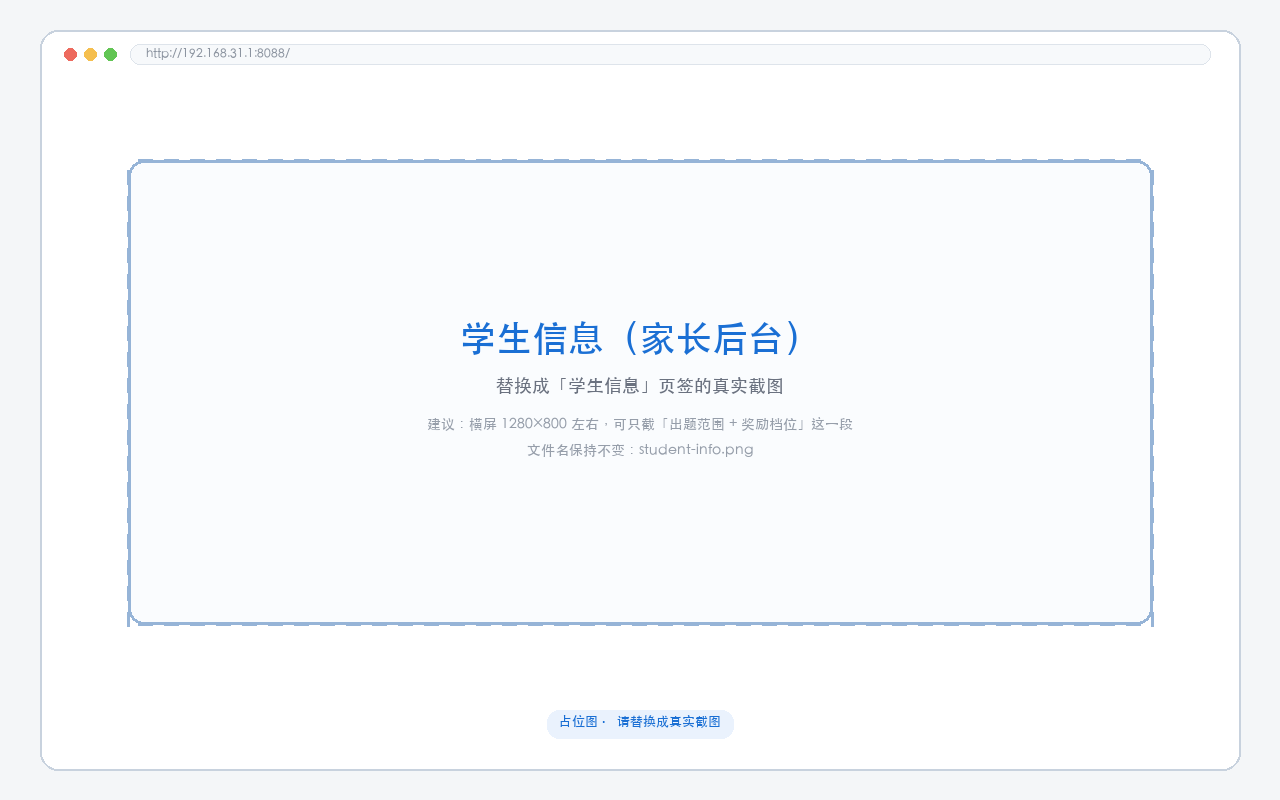
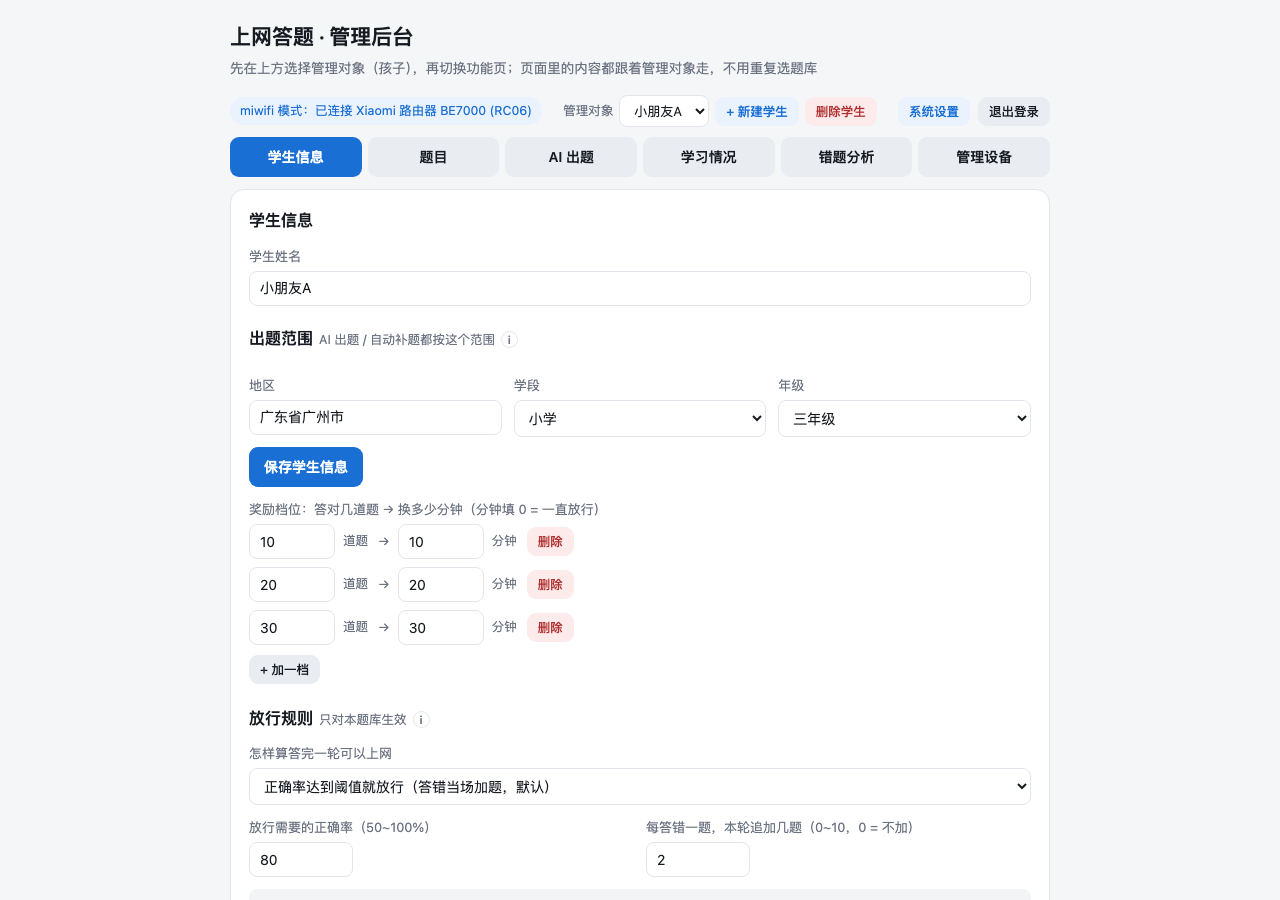
docs: 替换 README 截图为真实页面截图（答题页/学生信息/学习情况），姓名与设备 MAC/IP 已遮挡

diff --git a/docs/screenshots/README.md b/docs/screenshots/README.md
@@ -1,23 +1,23 @@
-# 截图占位说明
+# 截图
 
-README 顶部「截图」用的三张图就是这里的文件：
+README 顶部「截图」用的三张图，均来自真实运行页面（学生姓名、设备 MAC、内网 IP 已遮挡）：
 
-| 文件 | 对应界面 | 建议尺寸 |
+| 文件 | 对应界面 | 尺寸 |
 |---|---|---|
-| `answer-page.png` | 孩子答题页 `http://<内网IP>:8088/` | 手机竖屏，760×1120 左右 |
-| `student-info.png` | 后台「学生信息」页 | 横屏 1280×800 左右 |
-| `learning-stats.png` | 后台「学习情况」（含「学习统计」趋势图与「每科正确率」） | 横屏 1280×800 左右 |
+| `answer-page.png` | 孩子答题页 `http://<内网IP>:8088/`（手机视口 430×932 @2x） | 860×1864 |
+| `student-info.png` | 后台「学生信息」页签 | 1280×900 |
+| `learning-stats.png` | 后台「学习情况」：学情卡片 + 学习统计趋势图 + 每科正确率 | 806×712 |
 
-## 怎么替换
+## 想换成自己的截图
 
 1. 截好图（PNG / JPG 都行，JPG 体积更小）；
-2. 用同样的文件名覆盖这里的占位图（例如把截图命名为 `answer-page.png`）；
-3. `git add docs/screenshots && git commit -m "docs: 截图" && git push` 即可，README 不用改。
+2. 用同样的文件名覆盖这里的图（例如把截图命名为 `answer-page.png`）；
+3. `git add docs/screenshots && git commit -m "docs: 更新截图" && git push` 即可，README 不用改。
 
 如果改了文件名，记得把 `README.md`「截图」一节里的 `docs/screenshots/xxx.png` 一起改掉。
 
-## 小建议
+## 注意
 
-- 截图前把名字、设备 MAC、内网 IP 打码（浏览器地址栏露出 IP 也建议遮一下）；
-- 手机截图可以用「添加到主屏幕」后的页面，更像真实使用场景；
-- 学习情况那张建议同时带上「学习统计」的柱线图和「每科正确率」条形图，最能体现功能。
+- 截图前把姓名、设备 MAC、内网 IP 打码（浏览器地址栏露出 IP 也建议遮一下）；
+- 「学习情况」那张建议同时带上「学习统计」趋势图和「每科正确率」条形图；
+- 手机截图可以用「添加到主屏幕」后的页面，更像真实使用场景。
